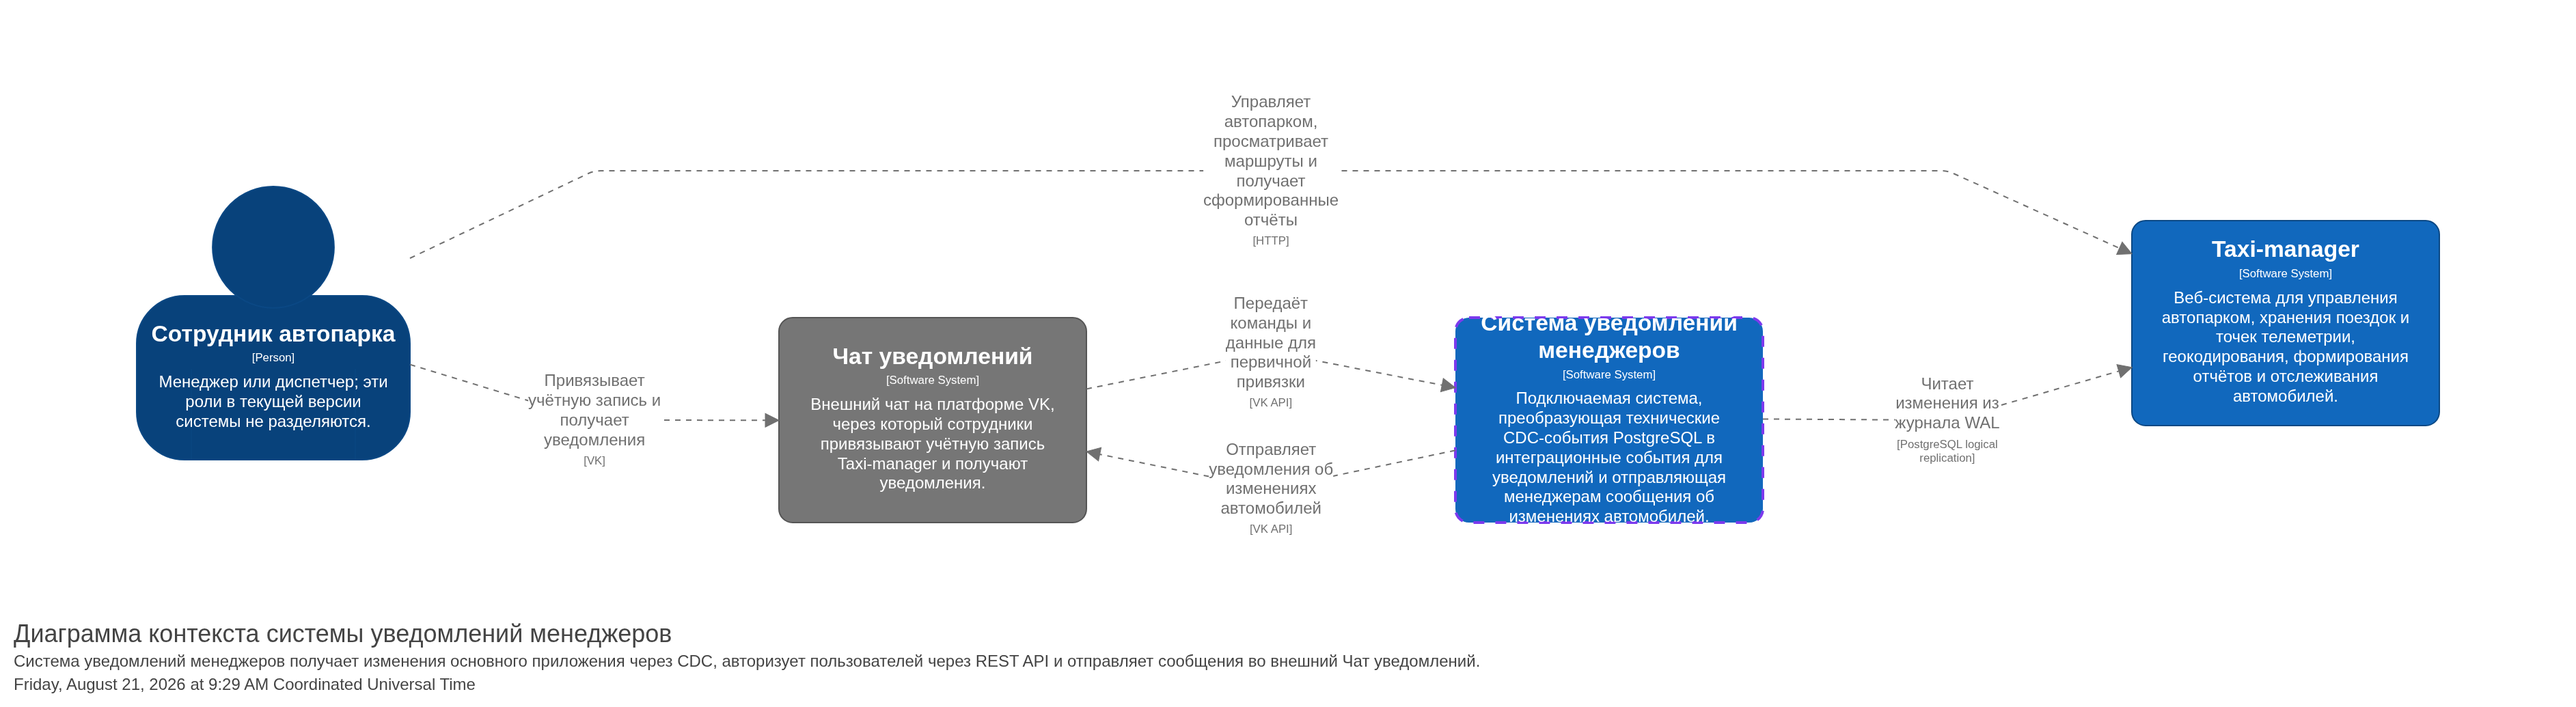
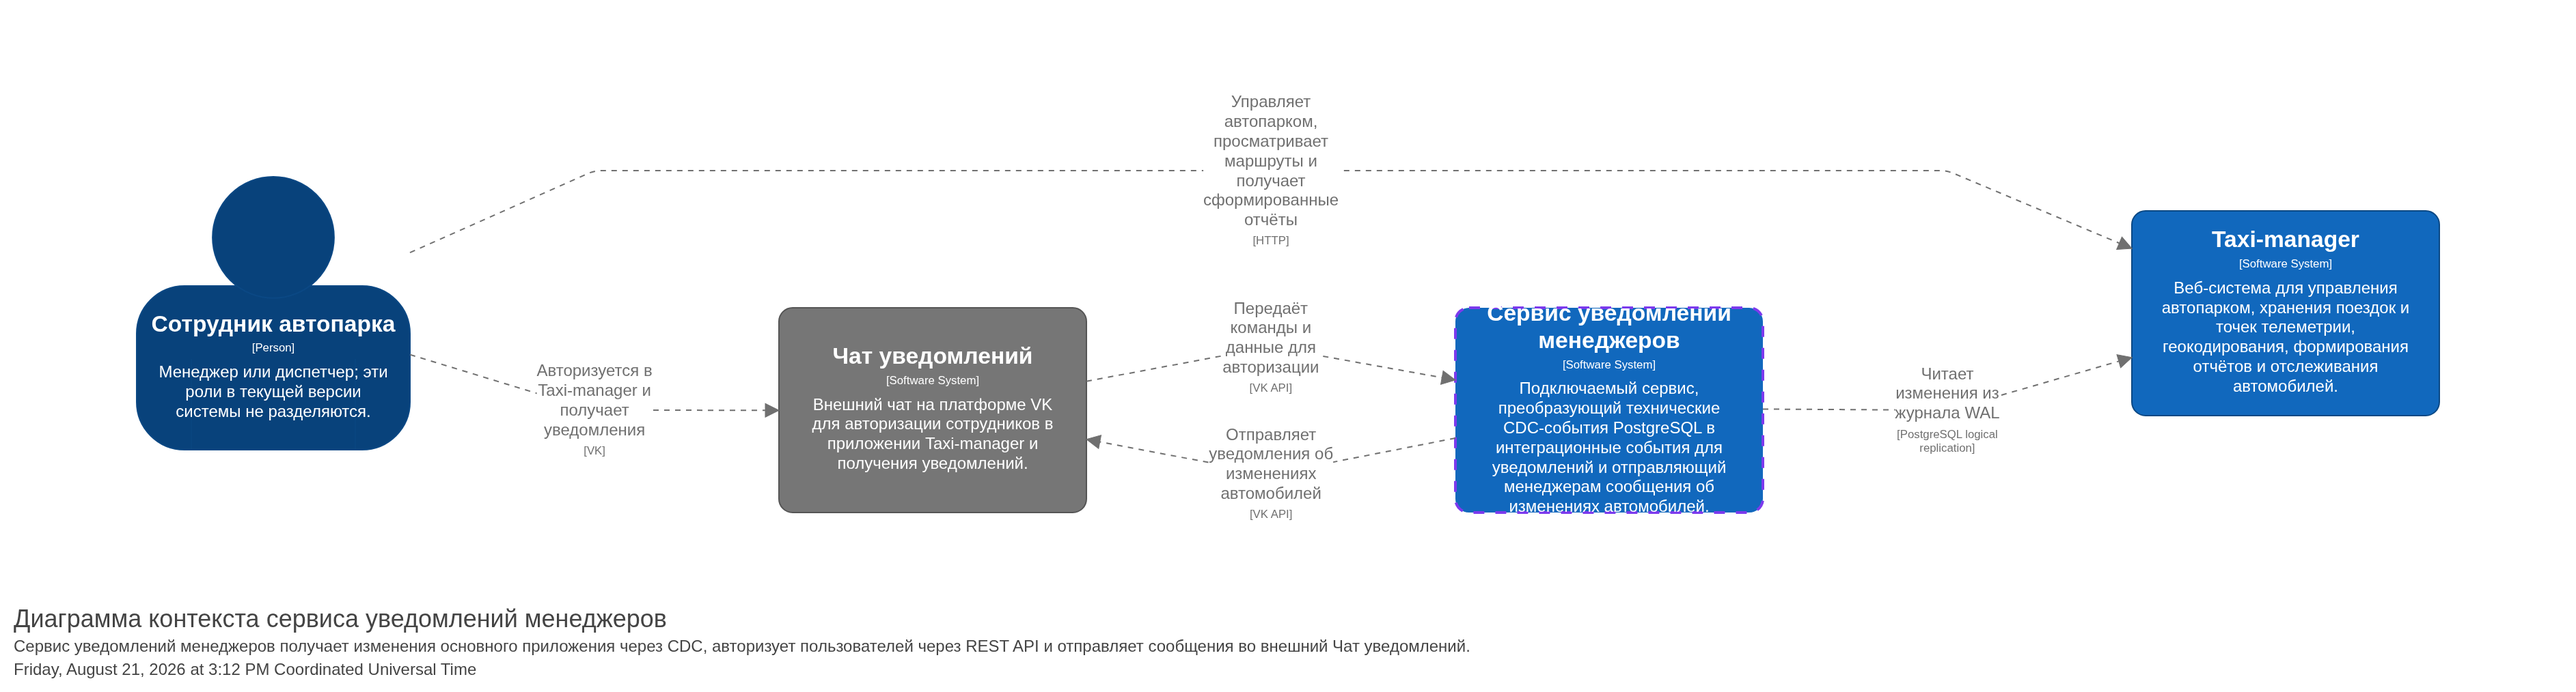
Еще правки C4 и README

diff --git a/docs/architecture/README.md b/docs/architecture/README.md
@@ -6,8 +6,8 @@
 
 - `workspace.dsl` — точка входа Structurizr;
 - `model/taxi-manager.dsl` — элементы и связи работающего приложения;
-- `model/notifications.dsl` и `views/notifications.dsl` — подключаемая система уведомлений менеджеров, её C1, C2 и сценарий формирования уведомления;
-- `model/observability.dsl` и `views/observability.dsl` — система хранения и анализа данных мониторинга и её представления;
+- `model/notifications.dsl` и `views/notifications.dsl` — подключаемый сервис уведомлений менеджеров, его контекст, контейнеры и сценарий формирования уведомления;
+- `model/observability.dsl` и `views/observability.dsl` — сервис хранения и визуализации данных мониторинга и его представления;
 - `model/ci-cd.dsl` и `views/ci-cd.dsl` — Jenkins-конвейер, его представления и сценарий выполнения;
 - `model/deployment.dsl` и `views/deployment.dsl` — варианты физического развёртывания;
 - `views/taxi-manager.dsl` — C1, C2 и ключевые сценарии основной системы;
